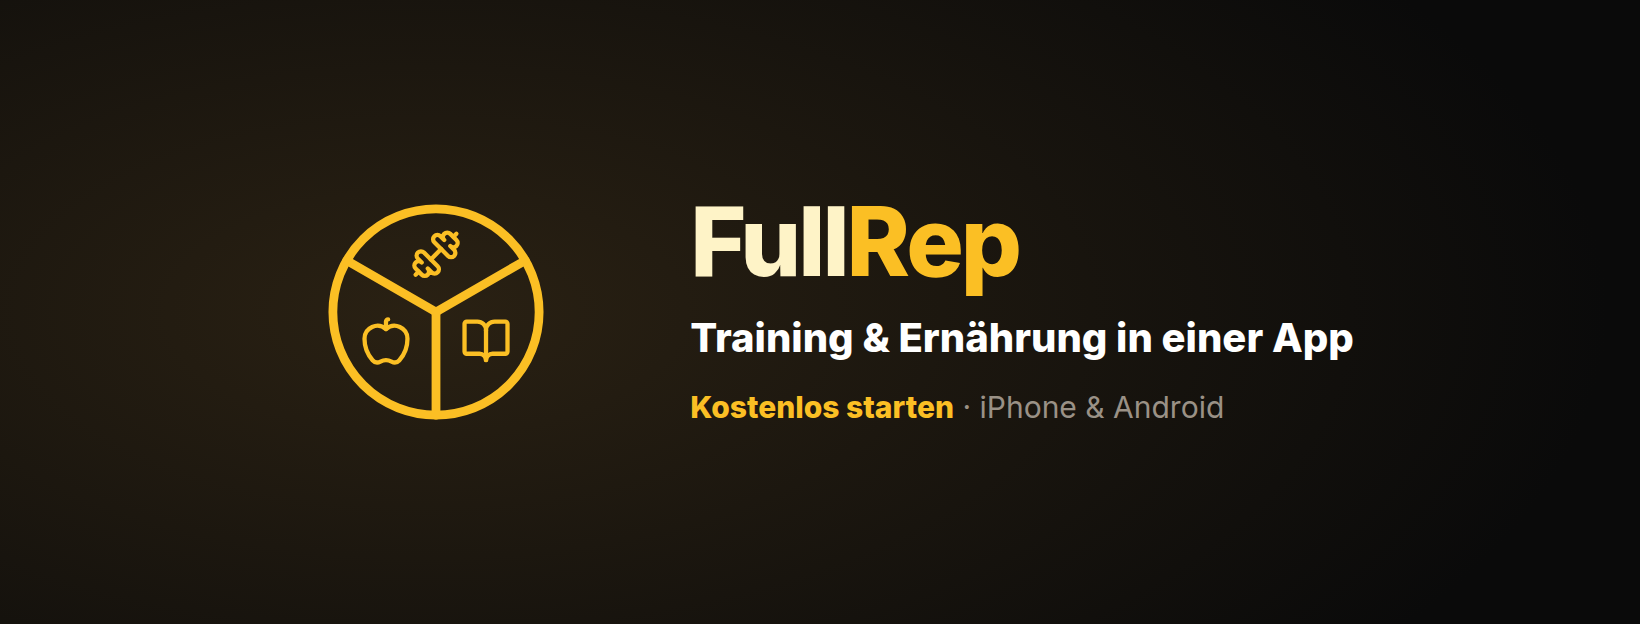
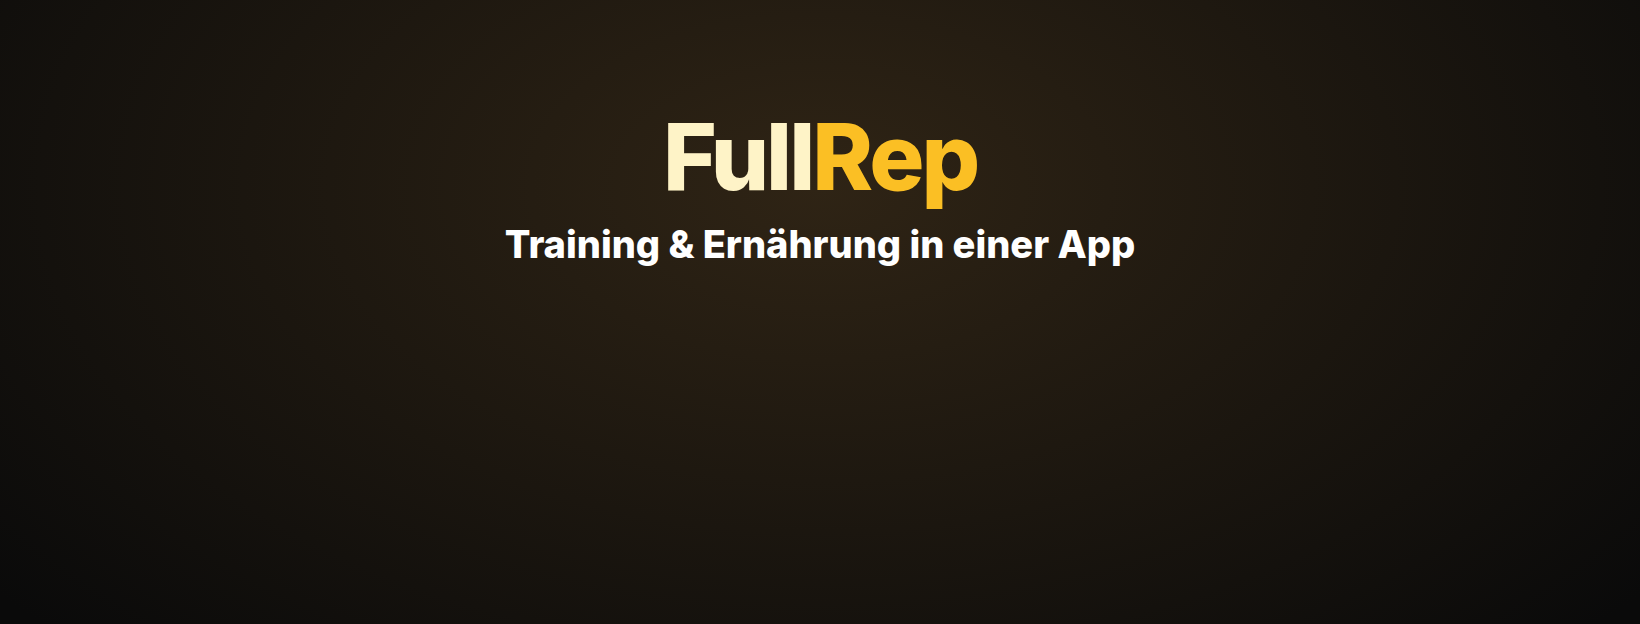
Titelbild: Geometrie am echten Handy nachgemessen
Der erste Entwurf sass auf dem Handy falsch — auf Josefs Screenshot war
das Zeichen links angeschnitten und das Profilbild lag mitten auf dem
Text. Zwei Annahmen waren falsch:

- Facebook zeigt auf dem Handy nur die MITTLEREN ~507 von 820 px. Das
  sichtbare Band ist 1.63:1, unser Bild 2.63:1; alles ausserhalb
  x=156..664 sieht dort niemand. Gerechnet hatte ich mit 640.
- Das Profilbild liegt auf dem Handy MITTIG ueber dem Titelbild, nicht
  unten links wie am Rechner. Es verdeckt x=304..518 ab y=191.

Neuer Aufbau: eine zentrierte Spalte, die bei y=159 endet — oberhalb der
Ueberlappung und innerhalb des sichtbaren Ausschnitts. Das Zeichen ist
runter, weil es als Profilbild direkt darunter steht; doppelt war es nur
im Weg und genau der Teil, der abgeschnitten wurde.

Beide Ansichten vor dem Ausliefern simuliert (mittiger Zuschnitt +
Profilkreis an der gemessenen Stelle), Zahlen stehen im Code.

Claude-Session: https://claude.ai/code/session_01Q8wDHCpaGYH3VwL2uskizx

Changed region(s): [[0.1866, 0.1827, 0.7152, 0.6699], [0.4043, 0.5176, 0.8396, 0.5785], [0.4043, 0.6394, 0.7463, 0.6699]]

diff --git a/scripts/render-store-graphics.py b/scripts/render-store-graphics.py
@@ -158,13 +158,20 @@ def main():
     shoot(html, 1024, 500, os.path.join(OUT, "feature-graphic.png"), chrome)
 
     # ── Facebook-Titelbild 820x312 ────────────────────────────────────────
-    # ⚠ Der Rahmen ist 820x312, aber Facebook schneidet auf dem Handy die
-    # SEITEN weg — sichtbar bleibt grob die mittlere Spalte. Alles Wichtige
-    # sitzt deshalb zwischen x=90 und x=730; die Raender tragen nur Verlauf.
-    # Gerendert wird doppelt (1640x624), sonst wirkt die Schrift auf
-    # hochaufloesenden Displays weich.
+    # ⚠ Die Geometrie hier ist am echten Handy nachgemessen (31.08.2026), nicht
+    # geschaetzt — der erste Entwurf lag daneben:
+    #
+    #   * Facebook zeigt auf dem Handy nur die MITTLEREN ~507 von 820 px
+    #     (sichtbares Band 1.63:1 statt unserer 2.63:1). Alles links von x=156
+    #     oder rechts von x=664 sieht dort niemand.
+    #   * Das Profilbild liegt MITTIG ueber dem Titelbild (nicht links wie am
+    #     Rechner) und verdeckt x=304..518 ab y=191 abwaerts.
+    #
+    # Daraus folgt der Aufbau: eine zentrierte Spalte im oberen Bereich, die bei
+    # y=159 endet. Das Zeichen ist bewusst NICHT mehr drauf — es steht als
+    # Profilbild direkt darunter, doppelt waere es nur im Weg.
     cover = f"""<style>
-      {kopf([400, 800])}
+      {kopf([800])}
       /* Entworfen in 820x312 (so denkt Facebook), ausgegeben in doppelter
          Groesse: --force-device-scale-factor wirkt in diesem Chromium NICHT
          auf den Screenshot, deshalb die Skalierung im Dokument selbst. */
@@ -173,34 +180,21 @@ def main():
         -webkit-font-smoothing:antialiased}}
       .zoom{{width:820px;height:312px;transform:scale(2);transform-origin:0 0}}
       .wrap{{position:relative;width:820px;height:312px;overflow:hidden;
-        background:radial-gradient(120% 150% at 26% 50%, #2a2113 0%, {BG} 60%)}}
-      /* Zeichen + Text als Flex-Zeile in der handysicheren Spalte (640 breit,
-         mittig). Flex zentriert nach der TATSAECHLICHEN Textbreite — eine fest
-         gesetzte Breite laege daneben, sobald der Text sich aendert. */
-      /* Das Profilbild der Seite ueberlappt das Titelbild unten links. Der
-         Innenabstand unten hebt das Motiv aus dieser Ecke heraus. */
-      .safe{{position:absolute;left:90px;top:0;width:640px;height:312px;
-        padding-bottom:30px;
-        display:flex;align-items:center;justify-content:center;gap:52px}}
-      .mark{{width:150px;height:150px;flex:0 0 auto}}
-      .text{{flex:0 1 auto}}
-      h1{{margin:0;font-weight:800;font-size:48px;letter-spacing:-1.5px;
+        background:radial-gradient(105% 165% at 50% 30%, #2f2415 0%, {BG} 62%)}}
+      /* Oberhalb von y=191 bleiben, sonst verschluckt es das Profilbild. */
+      .text{{position:absolute;left:0;top:0;width:820px;height:191px;
+        display:flex;flex-direction:column;align-items:center;
+        justify-content:center;text-align:center}}
+      h1{{margin:0;font-weight:800;font-size:46px;letter-spacing:-1.5px;
         color:#fef3c7;line-height:1}}
       h1 span{{color:{GOLD}}}
-      h2{{margin:11px 0 0;font-weight:800;font-size:20px;color:#ffffff;
+      h2{{margin:10px 0 0;font-weight:800;font-size:19px;color:#ffffff;
         line-height:1.3;white-space:nowrap}}
-      p{{margin:11px 0 0;font-weight:400;font-size:15px;color:#9a9186;
-        line-height:1.5;white-space:nowrap}}
-      p b{{font-weight:800;color:{GOLD}}}
     </style>
     <div class="zoom"><div class="wrap">
-      <div class="safe">
-      <img class="mark" src="{mark}">
       <div class="text">
         <h1>Full<span>Rep</span></h1>
         <h2>Training &amp; Ernährung in einer App</h2>
-        <p><b>Kostenlos starten</b> · iPhone &amp; Android</p>
-      </div>
       </div>
     </div></div>"""
     social = os.path.join(ROOT, "store-assets", "social")
